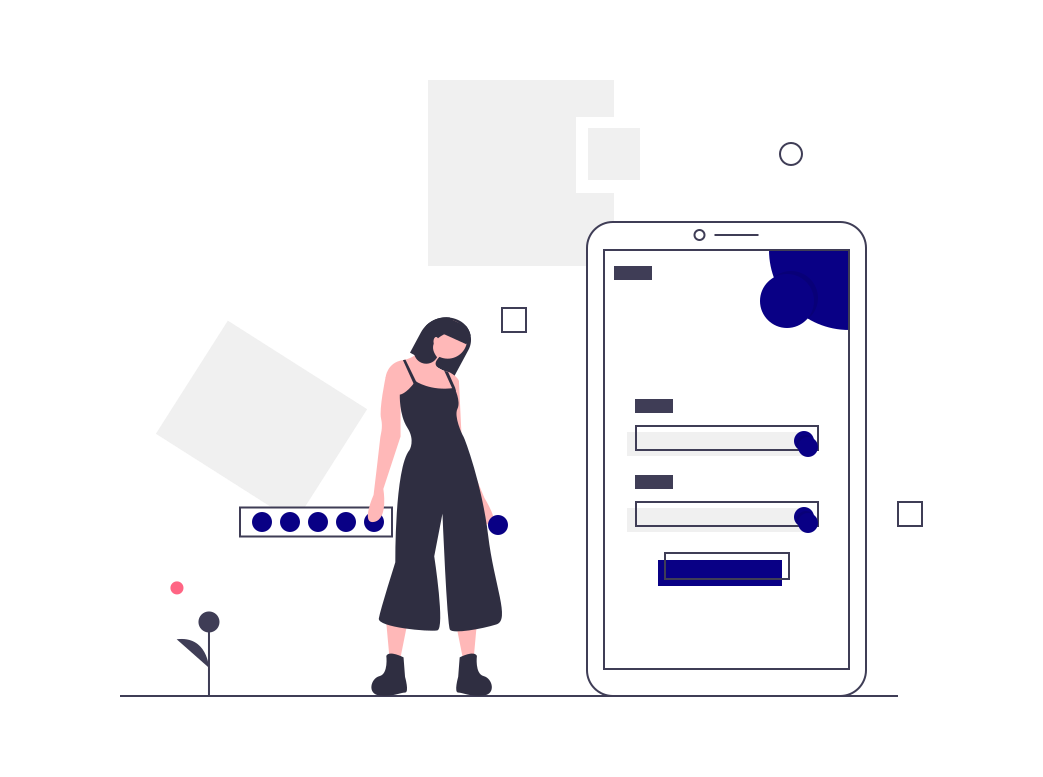
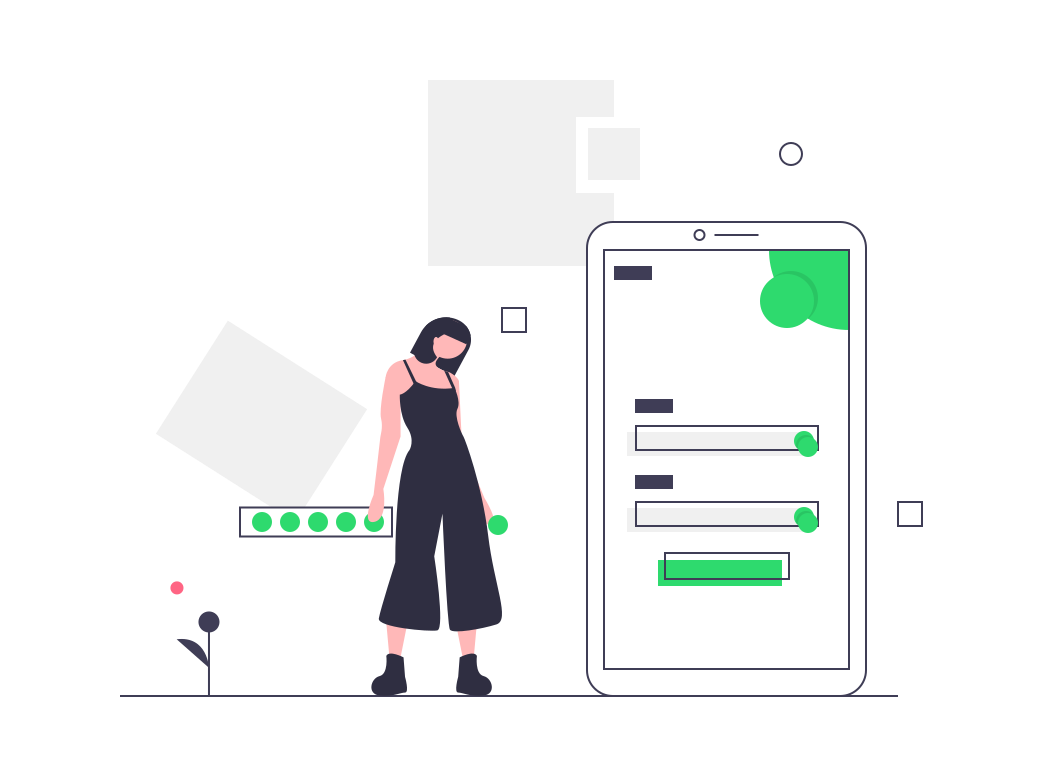
almost through

diff --git a/public/logreg/css/main.css b/public/logreg/css/main.css
@@ -94,15 +94,15 @@ textarea:focus, input:focus {
   border-color: transparent !important;
 }
 
-input::-webkit-input-placeholder { color: #4b2354;}
-input:-moz-placeholder { color: #4b2354;}
-input::-moz-placeholder { color: #4b2354;}
-input:-ms-input-placeholder { color: #4b2354;}
+input::-webkit-input-placeholder { color: green;}
+input:-moz-placeholder { color: green;}
+input::-moz-placeholder { color: green;}
+input:-ms-input-placeholder { color: green;}
 
-textarea::-webkit-input-placeholder { color: #4b2354;}
-textarea:-moz-placeholder { color: #4b2354;}
-textarea::-moz-placeholder { color: #4b2354;}
-textarea:-ms-input-placeholder { color: #4b2354;}
+textarea::-webkit-input-placeholder { color: green;}
+textarea:-moz-placeholder { color: green;}
+textarea::-moz-placeholder { color: green;}
+textarea:-ms-input-placeholder { color: green;}
 
 /*---------------------------------------------*/
 button {
@@ -134,11 +134,11 @@ iframe {
   font-family: SourceSansPro-Regular;
   font-size: 16px;
   line-height: 1.4;
-  color: #4b2354;
+  color: green;
 }
 
 .hov1:hover {
-  color: #4b2354;
+  color: green;
   text-decoration: underline;
 }
 
@@ -187,7 +187,7 @@ iframe {
   background: rgb(255, 255, 255,0.8);
   border-radius: 10px;
   overflow: hidden;
-  border: 3px solid navy;
+  border: 3px solid green;
   box-shadow: 0 3px 20px 0px rgba(0, 0, 0, 0.1);
   -moz-box-shadow: 0 3px 20px 0px rgba(0, 0, 0, 0.1);
   -webkit-box-shadow: 0 3px 20px 0px rgba(0, 0, 0, 0.1);
@@ -207,7 +207,7 @@ iframe {
   display: block;
   font-family: SourceSansPro-Bold;
   font-size: 30px;
-  color: navy;
+  color: green;
   line-height: 1.2;
   text-align: center;
 }
@@ -225,7 +225,7 @@ iframe {
 .input100 {
   font-family: SourceSansPro-Bold;
   font-size: 16px;
-  color: navy;
+  color: green;
   line-height: 1.2;
 
   display: block;
@@ -293,12 +293,12 @@ iframe {
   min-width: 160px;
   height: 50px;
   background: none;
-  border: 1px solid navy;
+  border: 1px solid green;
   border-radius: 25px;
 
   font-family: SourceSansPro-SemiBold;
   font-size: 14px;
-  color: navy;
+  color: green;
   line-height: 1.2;
   text-transform: uppercase;
 
@@ -310,13 +310,13 @@ iframe {
 }
 
 .login100-form-btn:hover {
-  background-color: #11286e;
-  box-shadow: 0 10px 30px 0px rgb(17, 40, 110, 0.8);
-  -moz-box-shadow: 0 10px 30px 0px rgb(17, 40, 110, 0.8);
-  -webkit-box-shadow: 0 10px 30px 0px rgb(17, 40, 110, 0.8);
-  -o-box-shadow: 0 10px 30px 0px rgb(17, 40, 110, 0.8);
-  -ms-box-shadow: 0 10px 30px 0px rgb(17, 40, 110, 0.8);
-  color: #11286e;
+  background-color: green;
+  box-shadow: 0 10px 30px 0px rgb(0, 128, 0, 0.8);
+  -moz-box-shadow: 0 10px 30px 0px rgb(0, 128, 0, 0.8);
+  -webkit-box-shadow: 0 10px 30px 0px rgb(0, 128, 0, 0.8);
+  -o-box-shadow: 0 10px 30px 0px rgb(0, 128, 0, 0.8);
+  -ms-box-shadow: 0 10px 30px 0px rgb(0, 128, 0, 0.8);
+  color: green;
 }
 
 
@@ -385,7 +385,7 @@ iframe {
   content: "\f269";
   font-family: Material-Design-Iconic-Font;
   font-size: 15px;
-  color: navy;
+  color: green;
   display: -webkit-box;
   display: -webkit-flex;
   display: -moz-box;
@@ -458,7 +458,7 @@ iframe {
 
 
 i.icon {
-  color: navy;
+  color: green;
   margin-top: 23px;
   margin-left: 20px;
 }

diff --git a/public/fpart/css/ham.css b/public/fpart/css/ham.css
@@ -280,7 +280,6 @@ p#home-slide4 {
 .finebutton {
     background: none;
     padding: 8px 20px;
-    display: block;
     margin: auto;
 }    
 
@@ -292,6 +291,7 @@ border-radius: 5%;
 .forathirdpill {
     border: 1px solid white; 
     color: white; 
+    width: 100px;
     border-radius: 5%;
 }
 .forathirdill {
@@ -339,13 +339,6 @@ border-radius: 5%;
 
 
 .athird_div {
-    background-image: linear-gradient(rgb(255, 215, 0,0),rgb(255, 215, 0,0)),url(../full/check.png);
-    background-size: contain;
-    background-position: center;
-    background-repeat: no-repeat;
-    width: 100%;
-    height: 500px;
-    padding: 20px;
 }
 
 .athird_div h2{
@@ -355,18 +348,11 @@ border-radius: 5%;
     font-family: Arial, Helvetica, sans-serif;
 }
 .athird_ill {
-    background-image: url(../full/doctor.png);
-    background-position: center;
-    background-size: contain;
-    background-repeat: no-repeat;
-    border: 1px solid white;
-    width: 100%;
     /* border-top-left-radius: 50px 50px;
     border-bottom-left-radius: 50px 50px;
     border-top-right-radius: 50px 50px;
     border-bottom-right-radius: 50px 50px; */
-    height: 500px;
-    transition: 1s;
+    height: 600px;
     text-align: center;
 }
 .athird_ill:hover {
@@ -732,3 +718,8 @@ opacity: 0;
 
 
 
+a.ui.basic.button {
+    color: white;
+}.ui.basic.button {
+    color: white;
+}

diff --git a/public/fpart/css/posts/show.css b/public/fpart/css/posts/show.css
@@ -24,7 +24,7 @@ img {
     text-transform: uppercase;
     letter-spacing: 1px;
     font-weight: 100;
-    color: purple;
+    color: black;
 }
 h2.upp {
     color: green; 
